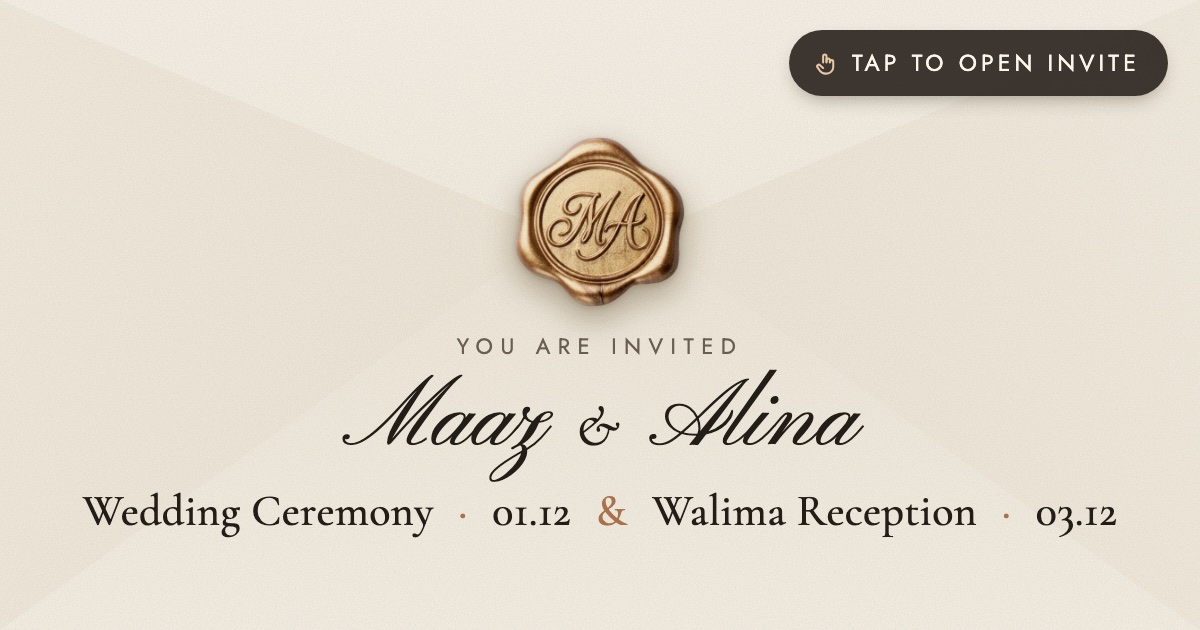
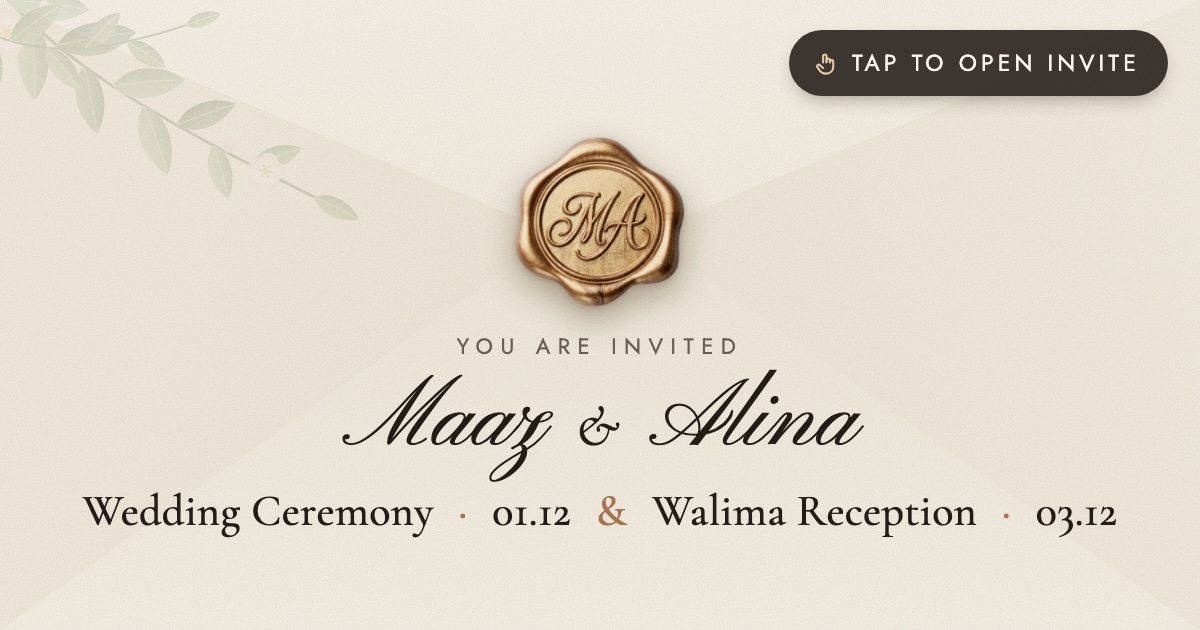
Faint leafy branch in the corner of the preview cards

diff --git a/index.html b/index.html
@@ -10,7 +10,7 @@
   <meta property="og:url" content="https://maaz-alina.vercel.app/">
   <meta property="og:title" content="Maaz &amp; Alina · You are invited">
   <meta property="og:description" content="Wedding Ceremony · Tuesday 01 December &amp; Walima Reception · Thursday 03 December 2026. Tap to open your invitation.">
-  <meta property="og:image" content="https://maaz-alina.vercel.app/assets/img/og.jpg?v=6">
+  <meta property="og:image" content="https://maaz-alina.vercel.app/assets/img/og.jpg?v=7">
   <meta property="og:image:type" content="image/jpeg">
   <meta property="og:image:width" content="1200">
   <meta property="og:image:height" content="630">

diff --git a/barat-Akfarm-01/index.html b/barat-Akfarm-01/index.html
@@ -10,7 +10,7 @@
   <meta property="og:url" content="https://maaz-alina.vercel.app/barat-Akfarm-01/">
   <meta property="og:title" content="Maaz &amp; Alina · Wedding Ceremony">
   <meta property="og:description" content="Tuesday, 01 December 2026 · AK Farmhouse and Events, Lahore. Tap to open your invitation.">
-  <meta property="og:image" content="https://maaz-alina.vercel.app/assets/img/og-barat.jpg?v=6">
+  <meta property="og:image" content="https://maaz-alina.vercel.app/assets/img/og-barat.jpg?v=7">
   <meta property="og:image:type" content="image/jpeg">
   <meta property="og:image:width" content="1200">
   <meta property="og:image:height" content="630">

diff --git a/walima-zainab-03/index.html b/walima-zainab-03/index.html
@@ -10,7 +10,7 @@
   <meta property="og:url" content="https://maaz-alina.vercel.app/walima-zainab-03/">
   <meta property="og:title" content="Maaz &amp; Alina · Walima Reception">
   <meta property="og:description" content="Thursday, 03 December 2026 · Zainab Marquee, Khanpur. Tap to open your invitation.">
-  <meta property="og:image" content="https://maaz-alina.vercel.app/assets/img/og-walima.jpg?v=6">
+  <meta property="og:image" content="https://maaz-alina.vercel.app/assets/img/og-walima.jpg?v=7">
   <meta property="og:image:type" content="image/jpeg">
   <meta property="og:image:width" content="1200">
   <meta property="og:image:height" content="630">
